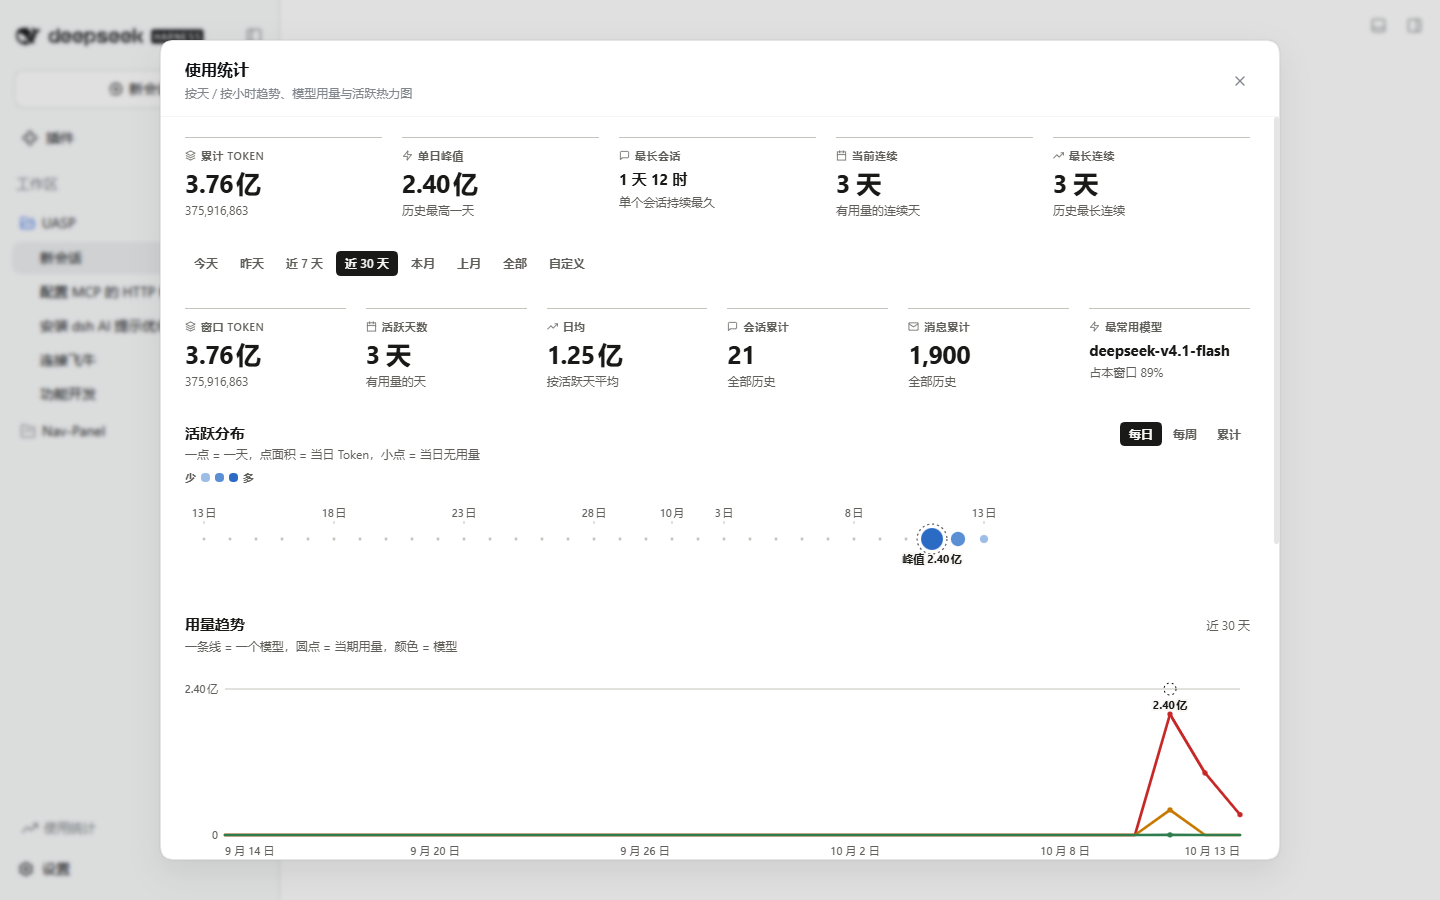
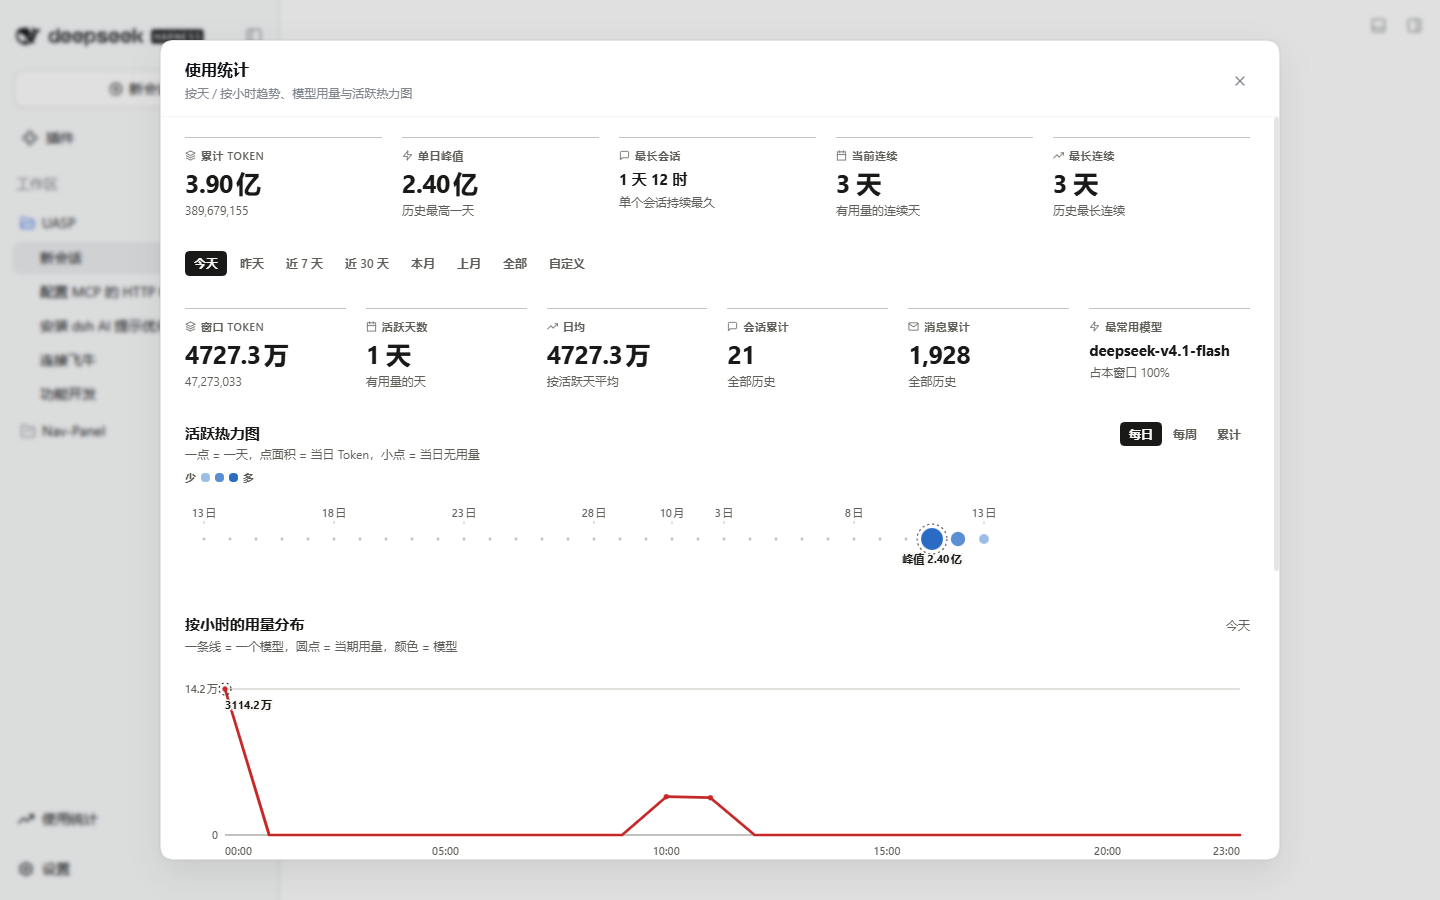
feat: 区块改名活跃热力图、默认展示今天、入口对齐设置菜单

diff --git a/lib/client.js b/lib/client.js
@@ -425,11 +425,11 @@ body[data-ds-dark-theme] .ust-date::-webkit-calendar-picker-indicator { filter: 
 
 		// ---------- 弹窗样式（对齐 dsh-token-usage 的展示方式） ----------
 		const MODAL_CSS = `
-/* 侧边栏入口按钮 */
-.ust-fab{position:relative}
-.ust-fabBtn{min-width:0;height:32px;box-sizing:border-box;color:var(--dsw-alias-label-tertiary);cursor:pointer;background:transparent;border:0;border-radius:8px;align-items:center;justify-content:center;gap:6px;padding:0 10px;font:inherit;font-size:13px;line-height:18px;display:flex;transition:color .15s ease,background-color .15s ease}
-.ust-fabBtn:hover,.ust-fabBtn:focus-visible{color:var(--dsw-alias-label-primary);background:var(--dsw-alias-interactive-bg-hover)}
-.ust-fabBtn--rail{width:32px;padding:0}
+/* 侧边栏入口：对齐左下角「设置」菜单行的形态（整行 260x42 / 圆角 12 / 14px / gap 8） */
+.ust-fab{position:relative;display:flex;margin:4px -2px}
+.ust-fabBtn{min-width:0;width:100%;height:42px;box-sizing:border-box;color:var(--dsw-alias-label-primary,#0f1115);cursor:pointer;background:transparent;border:0;border-radius:12px;padding:0 10px 0 8px;font:inherit;font-size:14px;line-height:22px;display:flex;align-items:center;gap:8px;transition:color .15s ease,background-color .15s ease}
+.ust-fabBtn:hover,.ust-fabBtn:focus-visible{background:var(--dsw-alias-interactive-bg-hover,rgba(0,0,0,.05))}
+.ust-fabBtn--rail{width:42px;height:42px;padding:0;justify-content:center;margin:0 auto}
 .ust-fabLabel{white-space:nowrap;overflow:hidden;text-overflow:ellipsis}
 .ust-fabIco{display:inline-flex;width:16px;height:16px;flex:none}
 .ust-fabIco svg{width:100%;height:100%}
@@ -526,7 +526,7 @@ body[data-ds-dark-theme] .ust-date::-webkit-calendar-picker-indicator { filter: 
 			return [place, clear, el];
 		}
 
-		// ---------- 1) 活跃分布 ----------
+		// ---------- 1) 活跃热力图 ----------
 		// 日历点阵：一格一天，点面积 = 当天用量（sqrt 换算，面积才与数值成正比）
 		const HEAT_MODES = [
 			{ id: "daily", label: "每日" },
@@ -710,7 +710,7 @@ body[data-ds-dark-theme] .ust-date::-webkit-calendar-picker-indicator { filter: 
 			return element("div", { className: "ust-block" },
 				element("div", { className: "ust-block-head" },
 					element("div", null,
-						element("h2", { className: "ust-h2" }, "活跃分布"),
+						element("h2", { className: "ust-h2" }, "活跃热力图"),
 						element("div", { className: "ust-sub" }, caption),
 						element("div", { className: "ust-scale" },
 							element("span", { className: "ust-scale-lab" }, "少"),
@@ -730,7 +730,7 @@ body[data-ds-dark-theme] .ust-date::-webkit-calendar-picker-indicator { filter: 
 				),
 				element("div", { ref: boxRef },
 					element("div", { className: "ust-plot" + (scrolls ? " is-scroll" : ""), ref: scrollRef },
-						boxW > 0 ? element("svg", { width: W, height: H, viewBox: "0 0 " + W + " " + H, role: "img", "aria-label": "活跃分布热力图" },
+						boxW > 0 ? element("svg", { width: W, height: H, viewBox: "0 0 " + W + " " + H, role: "img", "aria-label": "活跃热力图热力图" },
 							wdAxis, marks2, marks, peakMark,
 						) : null,
 					),
@@ -1018,7 +1018,7 @@ body[data-ds-dark-theme] .ust-date::-webkit-calendar-picker-indicator { filter: 
 			const [data, setData] = react.useState(null);
 			const [error, setError] = react.useState(null);
 			const [loading, setLoading] = react.useState(true);
-			const [range, setRange] = react.useState({ id: "last30" });
+			const [range, setRange] = react.useState({ id: "today" });
 			const [showCustom, setShowCustom] = react.useState(false);
 			const [from, setFrom] = react.useState("");
 			const [to, setTo] = react.useState("");

diff --git a/build/body.js b/build/body.js
@@ -151,11 +151,11 @@ window.__ModuleLoader__.load({
 
 		// ---------- 弹窗样式（对齐 dsh-token-usage 的展示方式） ----------
 		const MODAL_CSS = `
-/* 侧边栏入口按钮 */
-.ust-fab{position:relative}
-.ust-fabBtn{min-width:0;height:32px;box-sizing:border-box;color:var(--dsw-alias-label-tertiary);cursor:pointer;background:transparent;border:0;border-radius:8px;align-items:center;justify-content:center;gap:6px;padding:0 10px;font:inherit;font-size:13px;line-height:18px;display:flex;transition:color .15s ease,background-color .15s ease}
-.ust-fabBtn:hover,.ust-fabBtn:focus-visible{color:var(--dsw-alias-label-primary);background:var(--dsw-alias-interactive-bg-hover)}
-.ust-fabBtn--rail{width:32px;padding:0}
+/* 侧边栏入口：对齐左下角「设置」菜单行的形态（整行 260x42 / 圆角 12 / 14px / gap 8） */
+.ust-fab{position:relative;display:flex;margin:4px -2px}
+.ust-fabBtn{min-width:0;width:100%;height:42px;box-sizing:border-box;color:var(--dsw-alias-label-primary,#0f1115);cursor:pointer;background:transparent;border:0;border-radius:12px;padding:0 10px 0 8px;font:inherit;font-size:14px;line-height:22px;display:flex;align-items:center;gap:8px;transition:color .15s ease,background-color .15s ease}
+.ust-fabBtn:hover,.ust-fabBtn:focus-visible{background:var(--dsw-alias-interactive-bg-hover,rgba(0,0,0,.05))}
+.ust-fabBtn--rail{width:42px;height:42px;padding:0;justify-content:center;margin:0 auto}
 .ust-fabLabel{white-space:nowrap;overflow:hidden;text-overflow:ellipsis}
 .ust-fabIco{display:inline-flex;width:16px;height:16px;flex:none}
 .ust-fabIco svg{width:100%;height:100%}
@@ -252,7 +252,7 @@ window.__ModuleLoader__.load({
 			return [place, clear, el];
 		}
 
-		// ---------- 1) 活跃分布 ----------
+		// ---------- 1) 活跃热力图 ----------
 		// 日历点阵：一格一天，点面积 = 当天用量（sqrt 换算，面积才与数值成正比）
 		const HEAT_MODES = [
 			{ id: "daily", label: "每日" },
@@ -436,7 +436,7 @@ window.__ModuleLoader__.load({
 			return element("div", { className: "ust-block" },
 				element("div", { className: "ust-block-head" },
 					element("div", null,
-						element("h2", { className: "ust-h2" }, "活跃分布"),
+						element("h2", { className: "ust-h2" }, "活跃热力图"),
 						element("div", { className: "ust-sub" }, caption),
 						element("div", { className: "ust-scale" },
 							element("span", { className: "ust-scale-lab" }, "少"),
@@ -456,7 +456,7 @@ window.__ModuleLoader__.load({
 				),
 				element("div", { ref: boxRef },
 					element("div", { className: "ust-plot" + (scrolls ? " is-scroll" : ""), ref: scrollRef },
-						boxW > 0 ? element("svg", { width: W, height: H, viewBox: "0 0 " + W + " " + H, role: "img", "aria-label": "活跃分布热力图" },
+						boxW > 0 ? element("svg", { width: W, height: H, viewBox: "0 0 " + W + " " + H, role: "img", "aria-label": "活跃热力图热力图" },
 							wdAxis, marks2, marks, peakMark,
 						) : null,
 					),
@@ -744,7 +744,7 @@ window.__ModuleLoader__.load({
 			const [data, setData] = react.useState(null);
 			const [error, setError] = react.useState(null);
 			const [loading, setLoading] = react.useState(true);
-			const [range, setRange] = react.useState({ id: "last30" });
+			const [range, setRange] = react.useState({ id: "today" });
 			const [showCustom, setShowCustom] = react.useState(false);
 			const [from, setFrom] = react.useState("");
 			const [to, setTo] = react.useState("");

diff --git a/README.md b/README.md
@@ -2,13 +2,13 @@
 
 DeepSeek Harness 的**侧边栏 Token 用量面板**：在左侧边栏底部（设置按钮旁）增加「使用统计」入口，点击后弹出统计面板。
 
-面板内容：按天 / 按小时趋势图、模型用量仪表盘、活跃热力图，支持 **今天 / 昨天 / 近 7 天 / 近 30 天 / 本月 / 上月 / 全部 / 自定义** 区间。
+面板内容：按天 / 按小时趋势图、模型用量仪表盘、活跃热力图，支持 **今天 / 昨天 / 近 7 天 / 近 30 天 / 本月 / 上月 / 全部 / 自定义** 区间。**默认展示今天。**
 
 ## 效果图
 
 ### 侧边栏入口
 
-设置按钮上方的「使用统计」即为本插件入口（与内置项同一视觉层级）：
+设置按钮上方的「使用统计」即为本插件入口，行高 / 圆角 / 字号与左下角「设置」菜单行完全一致：
 
 ![侧边栏入口](assets/sidebar-entry.png)
 
